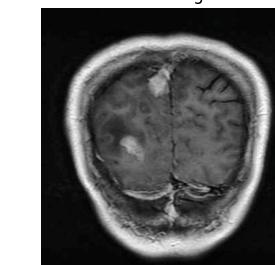
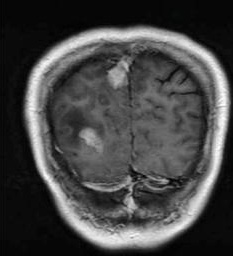
fix: resolve quick demo scan borders and add back navigation buttons across all views

diff --git a/frontend/src/App.jsx b/frontend/src/App.jsx
@@ -21,7 +21,8 @@ function App() {
     selectFile,
     removeFile,
     analyze,
-    reset
+    reset,
+    clearError
   } = usePrediction();
 
   const [isSpecsOpen, setIsSpecsOpen] = useState(false);
@@ -41,16 +42,27 @@ function App() {
               <SampleGallery onSelectSample={selectFile} disabled={isLoading} />
               
               {error && (
-                <div className="w-full bg-red-950/40 border border-red-500/50 text-red-200 p-5 rounded-2xl shadow-xl flex items-start gap-4 animate-in fade-in duration-300">
-                  <div className="p-2 bg-red-900/60 rounded-xl text-red-400 shrink-0 mt-0.5">
-                    <svg xmlns="http://www.w3.org/2000/svg" className="h-6 w-6" fill="none" viewBox="0 0 24 24" stroke="currentColor">
-                      <path strokeLinecap="round" strokeLinejoin="round" strokeWidth={2} d="M12 9v2m0 4h.01m-6.938 4h13.856c1.54 0 2.502-1.667 1.732-3L13.732 4c-.77-1.333-2.694-1.333-3.464 0L3.34 16c-.77 1.333.192 3 1.732 3z" />
+                <div className="w-full bg-red-950/50 border border-red-500/60 text-red-200 p-5 rounded-2xl shadow-xl flex items-start justify-between gap-4 animate-in fade-in duration-300">
+                  <div className="flex items-start gap-3">
+                    <div className="p-2 bg-red-900/60 rounded-xl text-red-400 shrink-0 mt-0.5">
+                      <svg xmlns="http://www.w3.org/2000/svg" className="h-6 w-6" fill="none" viewBox="0 0 24 24" stroke="currentColor">
+                        <path strokeLinecap="round" strokeLinejoin="round" strokeWidth={2} d="M12 9v2m0 4h.01m-6.938 4h13.856c1.54 0 2.502-1.667 1.732-3L13.732 4c-.77-1.333-2.694-1.333-3.464 0L3.34 16c-.77 1.333.192 3 1.732 3z" />
+                      </svg>
+                    </div>
+                    <div className="text-left">
+                      <h4 className="text-base font-semibold text-red-300 mb-1">Image Validation Alert</h4>
+                      <p className="text-sm text-red-200/90 leading-relaxed">{error}</p>
+                    </div>
+                  </div>
+                  <button
+                    onClick={clearError}
+                    className="p-1.5 text-red-400 hover:text-white rounded-lg hover:bg-red-900/50 transition-colors shrink-0 cursor-pointer"
+                    title="Dismiss alert"
+                  >
+                    <svg xmlns="http://www.w3.org/2000/svg" className="h-5 w-5" fill="none" viewBox="0 0 24 24" stroke="currentColor">
+                      <path strokeLinecap="round" strokeLinejoin="round" strokeWidth={2} d="M6 18L18 6M6 6l12 12" />
                     </svg>
-                  </div>
-                  <div className="flex-1 text-left">
-                    <h4 className="text-base font-semibold text-red-300 mb-1">Invalid Image Detected</h4>
-                    <p className="text-sm text-red-200/90 leading-relaxed">{error}</p>
-                  </div>
+                  </button>
                 </div>
               )}
             </>
@@ -66,15 +78,37 @@ function App() {
                 onAnalyze={analyze}
               />
               {error && (
-                <div className="w-full bg-red-950/40 border border-red-500/50 text-red-200 p-5 rounded-2xl shadow-xl flex items-start gap-4 animate-in fade-in duration-300">
-                  <div className="p-2 bg-red-900/60 rounded-xl text-red-400 shrink-0 mt-0.5">
-                    <svg xmlns="http://www.w3.org/2000/svg" className="h-6 w-6" fill="none" viewBox="0 0 24 24" stroke="currentColor">
-                      <path strokeLinecap="round" strokeLinejoin="round" strokeWidth={2} d="M12 9v2m0 4h.01m-6.938 4h13.856c1.54 0 2.502-1.667 1.732-3L13.732 4c-.77-1.333-2.694-1.333-3.464 0L3.34 16c-.77 1.333.192 3 1.732 3z" />
-                    </svg>
+                <div className="w-full bg-red-950/50 border border-red-500/60 text-red-200 p-5 rounded-2xl shadow-xl flex flex-col sm:flex-row items-start sm:items-center justify-between gap-4 animate-in fade-in duration-300">
+                  <div className="flex items-start gap-3">
+                    <div className="p-2 bg-red-900/60 rounded-xl text-red-400 shrink-0 mt-0.5">
+                      <svg xmlns="http://www.w3.org/2000/svg" className="h-6 w-6" fill="none" viewBox="0 0 24 24" stroke="currentColor">
+                        <path strokeLinecap="round" strokeLinejoin="round" strokeWidth={2} d="M12 9v2m0 4h.01m-6.938 4h13.856c1.54 0 2.502-1.667 1.732-3L13.732 4c-.77-1.333-2.694-1.333-3.464 0L3.34 16c-.77 1.333.192 3 1.732 3z" />
+                      </svg>
+                    </div>
+                    <div className="text-left">
+                      <h4 className="text-base font-semibold text-red-300 mb-1">Validation Notice</h4>
+                      <p className="text-sm text-red-200/90 leading-relaxed">{error}</p>
+                    </div>
                   </div>
-                  <div className="flex-1 text-left">
-                    <h4 className="text-base font-semibold text-red-300 mb-1">Invalid Image Detected</h4>
-                    <p className="text-sm text-red-200/90 leading-relaxed">{error}</p>
+                  <div className="flex items-center gap-2 self-end sm:self-center shrink-0">
+                    <button
+                      onClick={removeFile}
+                      className="inline-flex items-center gap-1.5 px-3 py-1.5 bg-red-900/70 hover:bg-red-800 text-white text-xs font-semibold rounded-xl border border-red-700/60 transition-colors cursor-pointer"
+                    >
+                      <svg xmlns="http://www.w3.org/2000/svg" className="h-4 w-4" fill="none" viewBox="0 0 24 24" stroke="currentColor">
+                        <path strokeLinecap="round" strokeLinejoin="round" strokeWidth={2} d="M10 19l-7-7m0 0l7-7m-7 7h18" />
+                      </svg>
+                      &larr; Back to Selection
+                    </button>
+                    <button
+                      onClick={clearError}
+                      className="p-1.5 text-red-400 hover:text-white rounded-lg hover:bg-red-900/50 transition-colors cursor-pointer"
+                      title="Dismiss notice"
+                    >
+                      <svg xmlns="http://www.w3.org/2000/svg" className="h-5 w-5" fill="none" viewBox="0 0 24 24" stroke="currentColor">
+                        <path strokeLinecap="round" strokeLinejoin="round" strokeWidth={2} d="M6 18L18 6M6 6l12 12" />
+                      </svg>
+                    </button>
                   </div>
                 </div>
               )}

diff --git a/frontend/src/components/ImagePreview.jsx b/frontend/src/components/ImagePreview.jsx
@@ -10,41 +10,71 @@ const formatFileSize = (bytes) => {
 
 const ImagePreview = ({ file, previewUrl, onRemove, onAnalyze }) => {
   return (
-    <div className="w-full bg-[#1e1b4b]/40 backdrop-blur-md rounded-2xl border border-indigo-800/50 overflow-hidden flex flex-col md:flex-row shadow-2xl">
-      <div className="relative md:w-1/2 p-6 flex items-center justify-center bg-black/20">
+    <div className="w-full flex flex-col gap-3 animate-in fade-in duration-300">
+      {/* Top back navigation button */}
+      <div>
         <button 
           onClick={onRemove}
-          className="absolute top-4 right-4 bg-gray-900/80 hover:bg-red-500 text-white rounded-full p-2 transition-colors focus:outline-none focus:ring-2 focus:ring-red-500"
-          title="Remove image"
+          className="inline-flex items-center gap-2 text-xs font-semibold text-slate-400 hover:text-cyan-300 transition-colors cursor-pointer group"
         >
-          <svg xmlns="http://www.w3.org/2000/svg" className="h-5 w-5" fill="none" viewBox="0 0 24 24" stroke="currentColor">
-            <path strokeLinecap="round" strokeLinejoin="round" strokeWidth={2} d="M6 18L18 6M6 6l12 12" />
+          <svg xmlns="http://www.w3.org/2000/svg" className="h-4 w-4 group-hover:-translate-x-1 transition-transform" fill="none" viewBox="0 0 24 24" stroke="currentColor">
+            <path strokeLinecap="round" strokeLinejoin="round" strokeWidth={2} d="M10 19l-7-7m0 0l7-7m-7 7h18" />
           </svg>
+          <span>&larr; Back to Image Selection</span>
         </button>
-        <img 
-          src={previewUrl} 
-          alt="MRI Preview" 
-          className="max-h-80 object-contain rounded-lg shadow-lg"
-        />
       </div>
-      
-      <div className="md:w-1/2 p-8 flex flex-col justify-center">
-        <h3 className="text-2xl font-bold text-white mb-2 truncate" title={file.name}>
-          {file.name}
-        </h3>
-        <p className="text-gray-400 mb-8">
-          {formatFileSize(file.size)}
-        </p>
+
+      <div className="w-full bg-[#1e1b4b]/40 backdrop-blur-md rounded-2xl border border-indigo-800/50 overflow-hidden flex flex-col md:flex-row shadow-2xl">
+        <div className="relative md:w-1/2 p-6 flex items-center justify-center bg-black/30">
+          <button 
+            onClick={onRemove}
+            className="absolute top-4 right-4 bg-gray-900/80 hover:bg-red-500 text-white rounded-full p-2 transition-colors focus:outline-none focus:ring-2 focus:ring-red-500 cursor-pointer"
+            title="Remove image"
+          >
+            <svg xmlns="http://www.w3.org/2000/svg" className="h-5 w-5" fill="none" viewBox="0 0 24 24" stroke="currentColor">
+              <path strokeLinecap="round" strokeLinejoin="round" strokeWidth={2} d="M6 18L18 6M6 6l12 12" />
+            </svg>
+          </button>
+          <img 
+            src={previewUrl} 
+            alt="MRI Preview" 
+            className="max-h-80 object-contain rounded-lg shadow-lg border border-slate-800"
+          />
+        </div>
         
-        <button 
-          onClick={onAnalyze}
-          className="w-full py-4 px-6 bg-gradient-to-r from-indigo-600 to-cyan-600 hover:from-indigo-500 hover:to-cyan-500 text-white font-bold rounded-xl shadow-lg shadow-indigo-900/30 transition-all flex justify-center items-center gap-3 text-lg focus:outline-none focus:ring-2 focus:ring-cyan-500 focus:ring-offset-2 focus:ring-offset-gray-900"
-        >
-          <svg xmlns="http://www.w3.org/2000/svg" className="h-6 w-6" fill="none" viewBox="0 0 24 24" stroke="currentColor">
-            <path strokeLinecap="round" strokeLinejoin="round" strokeWidth={2} d="M19.428 15.428a2 2 0 00-1.022-.547l-2.387-.477a6 6 0 00-3.86.517l-.318.158a6 6 0 01-3.86.517L6.05 15.21a2 2 0 00-1.806.547M8 4h8l-1 1v5.172a2 2 0 00.586 1.414l5 5c1.26 1.26.367 3.414-1.415 3.414H4.828c-1.782 0-2.674-2.154-1.414-3.414l5-5A2 2 0 009 10.172V5L8 4z" />
-          </svg>
-          Analyze MRI
-        </button>
+        <div className="md:w-1/2 p-8 flex flex-col justify-center">
+          <span className="text-[10px] font-bold tracking-wider uppercase text-cyan-400 mb-1">
+            Selected Brain MRI Scan
+          </span>
+          <h3 className="text-xl md:text-2xl font-bold text-white mb-1 truncate" title={file.name}>
+            {file.name}
+          </h3>
+          <p className="text-gray-400 text-sm mb-6">
+            File Size: {formatFileSize(file.size)}
+          </p>
+          
+          <div className="flex flex-col gap-3">
+            <button 
+              onClick={onAnalyze}
+              className="w-full py-4 px-6 bg-gradient-to-r from-indigo-600 to-cyan-600 hover:from-indigo-500 hover:to-cyan-500 text-white font-bold rounded-xl shadow-lg shadow-indigo-900/30 transition-all flex justify-center items-center gap-3 text-base focus:outline-none focus:ring-2 focus:ring-cyan-500 cursor-pointer"
+            >
+              <svg xmlns="http://www.w3.org/2000/svg" className="h-5 w-5" fill="none" viewBox="0 0 24 24" stroke="currentColor">
+                <path strokeLinecap="round" strokeLinejoin="round" strokeWidth={2} d="M19.428 15.428a2 2 0 00-1.022-.547l-2.387-.477a6 6 0 00-3.86.517l-.318.158a6 6 0 01-3.86.517L6.05 15.21a2 2 0 00-1.806.547M8 4h8l-1 1v5.172a2 2 0 00.586 1.414l5 5c1.26 1.26.367 3.414-1.415 3.414H4.828c-1.782 0-2.674-2.154-1.414-3.414l5-5A2 2 0 009 10.172V5L8 4z" />
+              </svg>
+              Run AI Analysis
+            </button>
+
+            <button 
+              onClick={onRemove}
+              className="w-full py-2.5 px-4 bg-slate-900/60 hover:bg-slate-800 text-slate-300 hover:text-white font-medium text-xs rounded-xl border border-slate-800 transition-colors flex items-center justify-center gap-2 cursor-pointer"
+            >
+              <svg xmlns="http://www.w3.org/2000/svg" className="h-4 w-4" fill="none" viewBox="0 0 24 24" stroke="currentColor">
+                <path strokeLinecap="round" strokeLinejoin="round" strokeWidth={2} d="M10 19l-7-7m0 0l7-7m-7 7h18" />
+              </svg>
+              &larr; Choose a Different Image
+            </button>
+          </div>
+        </div>
       </div>
     </div>
   );

diff --git a/frontend/src/components/PredictionResult.jsx b/frontend/src/components/PredictionResult.jsx
@@ -26,11 +26,25 @@ const PredictionResult = ({ result, previewUrl, onReset }) => {
   else if (confidence < 0.8) confColor = 'text-amber-400';
 
   return (
-    <div className="w-full bg-[#1e1b4b]/60 backdrop-blur-md rounded-2xl border border-indigo-500/30 p-6 md:p-8 shadow-2xl relative overflow-hidden">
-      {/* Decorative top border */}
-      <div className="absolute top-0 left-0 right-0 h-1 bg-gradient-to-r from-indigo-500 via-cyan-400 to-indigo-500"></div>
-      
-      <div className="flex flex-wrap items-center gap-3 mb-6">
+    <div className="w-full flex flex-col gap-3 animate-in fade-in duration-300">
+      {/* Top back navigation button */}
+      <div>
+        <button 
+          onClick={onReset}
+          className="inline-flex items-center gap-2 text-xs font-semibold text-slate-400 hover:text-cyan-300 transition-colors cursor-pointer group"
+        >
+          <svg xmlns="http://www.w3.org/2000/svg" className="h-4 w-4 group-hover:-translate-x-1 transition-transform" fill="none" viewBox="0 0 24 24" stroke="currentColor">
+            <path strokeLinecap="round" strokeLinejoin="round" strokeWidth={2} d="M10 19l-7-7m0 0l7-7m-7 7h18" />
+          </svg>
+          <span>&larr; Back to Image Selection</span>
+        </button>
+      </div>
+
+      <div className="w-full bg-[#1e1b4b]/60 backdrop-blur-md rounded-2xl border border-indigo-500/30 p-6 md:p-8 shadow-2xl relative overflow-hidden">
+        {/* Decorative top border */}
+        <div className="absolute top-0 left-0 right-0 h-1 bg-gradient-to-r from-indigo-500 via-cyan-400 to-indigo-500"></div>
+        
+        <div className="flex flex-wrap items-center gap-3 mb-6">
         <div className="bg-cyan-900/50 p-2 rounded-full text-cyan-400">
           <svg xmlns="http://www.w3.org/2000/svg" className="h-6 w-6" fill="none" viewBox="0 0 24 24" stroke="currentColor">
             <path strokeLinecap="round" strokeLinejoin="round" strokeWidth={2} d="M5 13l4 4L19 7" />
@@ -172,9 +186,12 @@ const PredictionResult = ({ result, previewUrl, onReset }) => {
 
         <button 
           onClick={onReset}
-          className="px-6 py-3 bg-[#0f0b1a] hover:bg-slate-800 text-slate-300 hover:text-white font-semibold text-xs uppercase tracking-wider rounded-xl border border-indigo-800/50 transition-all focus:outline-none focus:ring-2 focus:ring-indigo-500 cursor-pointer"
+          className="inline-flex items-center gap-2 px-6 py-3 bg-[#0f0b1a] hover:bg-slate-800 text-slate-300 hover:text-white font-semibold text-xs uppercase tracking-wider rounded-xl border border-indigo-800/50 transition-all focus:outline-none focus:ring-2 focus:ring-indigo-500 cursor-pointer"
         >
-          Analyze Another Scan
+          <svg xmlns="http://www.w3.org/2000/svg" className="h-4 w-4" fill="none" viewBox="0 0 24 24" stroke="currentColor">
+            <path strokeLinecap="round" strokeLinejoin="round" strokeWidth={2} d="M10 19l-7-7m0 0l7-7m-7 7h18" />
+          </svg>
+          &larr; Back to Selection / Analyze Another Scan
         </button>
       </div>
 
@@ -184,6 +201,7 @@ const PredictionResult = ({ result, previewUrl, onReset }) => {
         result={result}
         previewUrl={previewUrl}
       />
+    </div>
     </div>
   );
 };

diff --git a/frontend/src/components/ClinicalReportModal.jsx b/frontend/src/components/ClinicalReportModal.jsx
@@ -39,6 +39,15 @@ export default function ClinicalReportModal({ isOpen, onClose, result, previewUr
 
           <div className="flex items-center gap-2">
             <button
+              onClick={onClose}
+              className="inline-flex items-center gap-1.5 px-3 py-2 bg-slate-200 hover:bg-slate-300 text-slate-700 text-xs font-semibold rounded-xl transition-colors cursor-pointer"
+            >
+              <svg xmlns="http://www.w3.org/2000/svg" className="h-4 w-4" fill="none" viewBox="0 0 24 24" stroke="currentColor">
+                <path strokeLinecap="round" strokeLinejoin="round" strokeWidth={2} d="M10 19l-7-7m0 0l7-7m-7 7h18" />
+              </svg>
+              &larr; Back to Results
+            </button>
+            <button
               onClick={handlePrint}
               className="inline-flex items-center gap-1.5 px-4 py-2 bg-indigo-600 hover:bg-indigo-700 text-white text-xs font-semibold rounded-xl shadow transition-colors cursor-pointer"
             >
@@ -50,6 +59,7 @@ export default function ClinicalReportModal({ isOpen, onClose, result, previewUr
             <button
               onClick={onClose}
               className="p-2 text-slate-500 hover:text-slate-800 rounded-lg hover:bg-slate-200 transition-colors cursor-pointer"
+              title="Close modal"
             >
               <svg xmlns="http://www.w3.org/2000/svg" className="h-5 w-5" fill="none" viewBox="0 0 24 24" stroke="currentColor">
                 <path strokeLinecap="round" strokeLinejoin="round" strokeWidth={2} d="M6 18L18 6M6 6l12 12" />
@@ -213,6 +223,28 @@ export default function ClinicalReportModal({ isOpen, onClose, result, previewUr
             </p>
           </div>
 
+        </div>
+
+        {/* Modal Footer Controls (hidden on print) */}
+        <div className="p-4 bg-slate-100 border-t border-slate-200 flex items-center justify-between no-print">
+          <button
+            onClick={onClose}
+            className="inline-flex items-center gap-1.5 px-4 py-2 bg-slate-200 hover:bg-slate-300 text-slate-700 text-xs font-semibold rounded-xl transition-colors cursor-pointer"
+          >
+            <svg xmlns="http://www.w3.org/2000/svg" className="h-4 w-4" fill="none" viewBox="0 0 24 24" stroke="currentColor">
+              <path strokeLinecap="round" strokeLinejoin="round" strokeWidth={2} d="M10 19l-7-7m0 0l7-7m-7 7h18" />
+            </svg>
+            &larr; Back to Results
+          </button>
+          <button
+            onClick={handlePrint}
+            className="inline-flex items-center gap-1.5 px-4 py-2 bg-indigo-600 hover:bg-indigo-700 text-white text-xs font-semibold rounded-xl shadow transition-colors cursor-pointer"
+          >
+            <svg xmlns="http://www.w3.org/2000/svg" className="h-4 w-4" fill="none" viewBox="0 0 24 24" stroke="currentColor">
+              <path strokeLinecap="round" strokeLinejoin="round" strokeWidth={2} d="M17 17h2a2 2 0 002-2v-4a2 2 0 00-2-2H5a2 2 0 00-2 2v4a2 2 0 002 2h2m2 4h6a2 2 0 002-2v-4a2 2 0 00-2-2H9a2 2 0 00-2 2v4a2 2 0 002 2zm8-12V5a2 2 0 00-2-2H9a2 2 0 00-2 2v4h10z" />
+            </svg>
+            Print / Save as PDF
+          </button>
         </div>
       </div>
     </div>

diff --git a/frontend/src/components/ModelSpecsModal.jsx b/frontend/src/components/ModelSpecsModal.jsx
@@ -32,14 +32,26 @@ export default function ModelSpecsModal({ isOpen, onClose }) {
             </div>
           </div>
           
-          <button
-            onClick={onClose}
-            className="p-2 text-slate-400 hover:text-white rounded-lg hover:bg-slate-800/60 transition-colors focus:outline-none"
-          >
-            <svg xmlns="http://www.w3.org/2000/svg" className="h-5 w-5" fill="none" viewBox="0 0 24 24" stroke="currentColor">
-              <path strokeLinecap="round" strokeLinejoin="round" strokeWidth={2} d="M6 18L18 6M6 6l12 12" />
-            </svg>
-          </button>
+          <div className="flex items-center gap-2">
+            <button
+              onClick={onClose}
+              className="inline-flex items-center gap-1.5 px-3 py-1.5 text-xs font-semibold text-slate-300 bg-slate-800/80 hover:bg-slate-700 hover:text-white rounded-xl border border-slate-700/60 transition-colors cursor-pointer"
+            >
+              <svg xmlns="http://www.w3.org/2000/svg" className="h-4 w-4" fill="none" viewBox="0 0 24 24" stroke="currentColor">
+                <path strokeLinecap="round" strokeLinejoin="round" strokeWidth={2} d="M10 19l-7-7m0 0l7-7m-7 7h18" />
+              </svg>
+              &larr; Back to App
+            </button>
+            <button
+              onClick={onClose}
+              className="p-2 text-slate-400 hover:text-white rounded-lg hover:bg-slate-800/60 transition-colors focus:outline-none cursor-pointer"
+              title="Close modal"
+            >
+              <svg xmlns="http://www.w3.org/2000/svg" className="h-5 w-5" fill="none" viewBox="0 0 24 24" stroke="currentColor">
+                <path strokeLinecap="round" strokeLinejoin="round" strokeWidth={2} d="M6 18L18 6M6 6l12 12" />
+              </svg>
+            </button>
+          </div>
         </div>
 
         {/* Navigation Tabs */}
@@ -232,9 +244,12 @@ export default function ModelSpecsModal({ isOpen, onClose }) {
         <div className="p-4 bg-[#120d22] border-t border-indigo-900/30 flex justify-end">
           <button
             onClick={onClose}
-            className="px-5 py-2 bg-indigo-900/50 hover:bg-indigo-800 text-white text-xs font-semibold rounded-xl border border-indigo-700/50 transition-colors cursor-pointer"
+            className="inline-flex items-center gap-2 px-5 py-2.5 bg-indigo-900/60 hover:bg-indigo-800 text-white text-xs font-semibold rounded-xl border border-indigo-700/60 transition-colors cursor-pointer"
           >
-            Close
+            <svg xmlns="http://www.w3.org/2000/svg" className="h-4 w-4" fill="none" viewBox="0 0 24 24" stroke="currentColor">
+              <path strokeLinecap="round" strokeLinejoin="round" strokeWidth={2} d="M10 19l-7-7m0 0l7-7m-7 7h18" />
+            </svg>
+            &larr; Back to App
           </button>
         </div>
       </div>

diff --git a/frontend/src/hooks/usePrediction.js b/frontend/src/hooks/usePrediction.js
@@ -49,6 +49,10 @@ export const usePrediction = () => {
     }
   }, [selectedFile]);
 
+  const clearError = useCallback(() => {
+    setError(null);
+  }, []);
+
   const reset = useCallback(() => {
     removeFile();
   }, [removeFile]);
@@ -70,6 +74,7 @@ export const usePrediction = () => {
     selectFile,
     removeFile,
     analyze,
-    reset
+    reset,
+    clearError,
   };
 };
